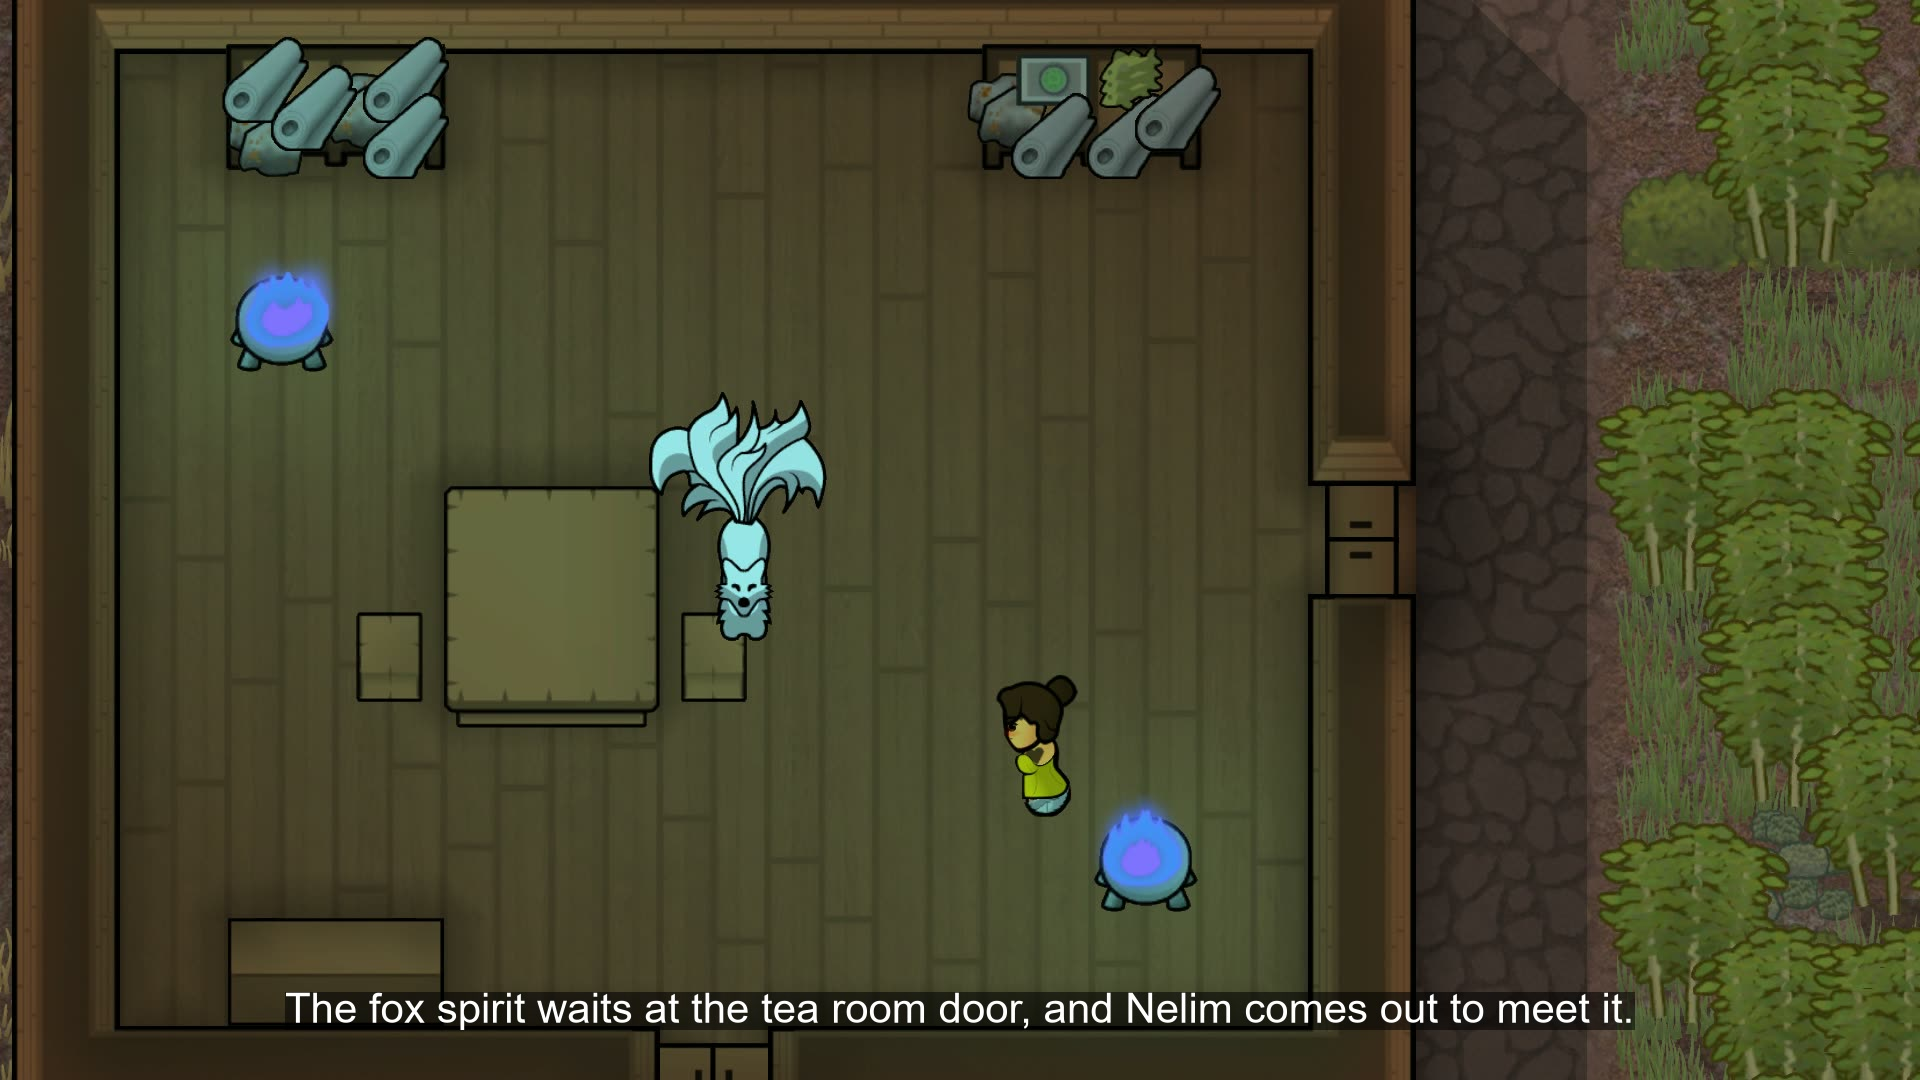
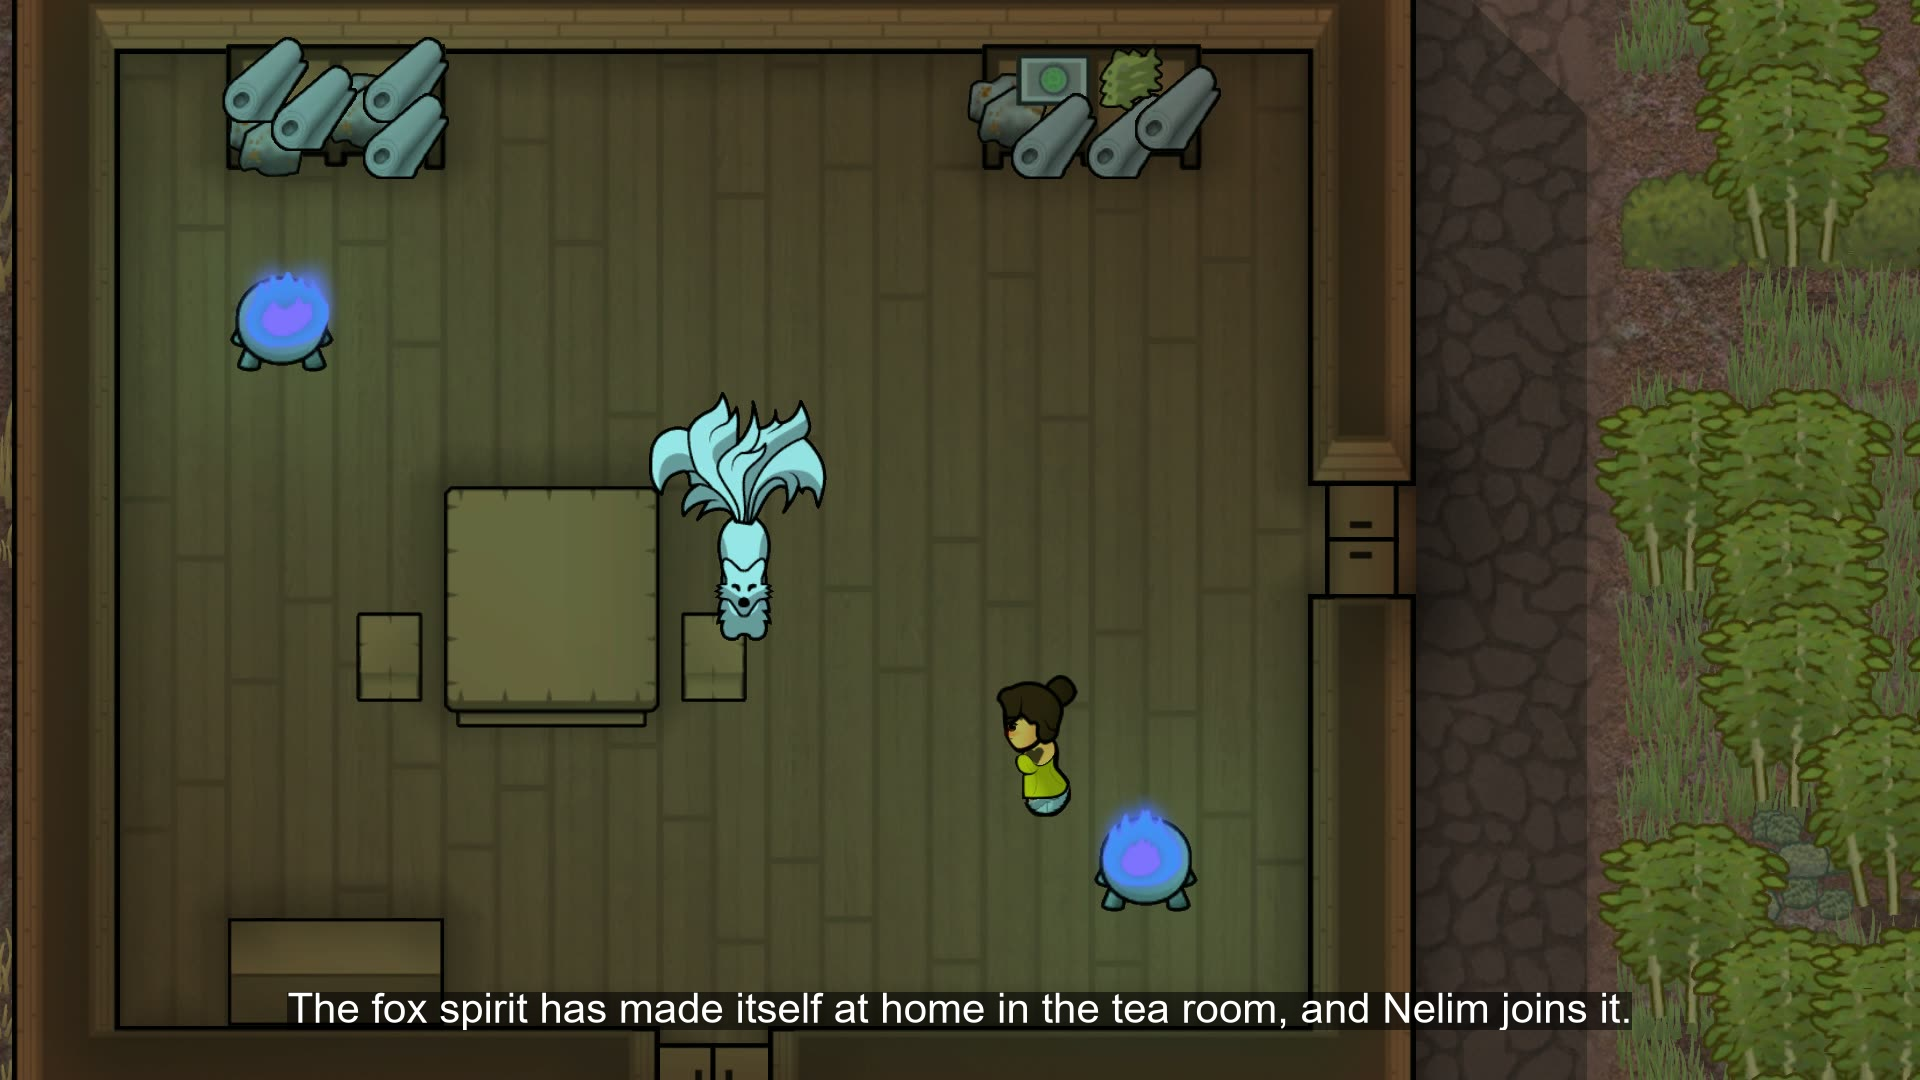
Gallery: subtitle of 1 matches the scene (kitsune already inside the tea room)

Changed region(s): [[0.1562, 0.9167, 0.8438, 0.9472]]

diff --git a/PUBLICATION.md b/PUBLICATION.md
@@ -69,7 +69,7 @@ One English line at the bottom of each scene without an interface window (`GALLE
 
 | scene | line |
 |---|---|
-| 1 kitsune at the tea room (`1-kitsune.jpg`) | The fox spirit waits at the tea room door, and Nelim comes out to meet it. |
+| 1 kitsune at the tea room (`1-kitsune.jpg`) | The fox spirit has made itself at home in the tea room, and Nelim joins it. |
 | 2 phoenix in the hearth hall (`2-phoenix.jpg`) | The phoenix settles in the hearth hall and lights it like a second fire. |
 | 3 manticore by the paddies (`3-manticore.jpg`) | The manticore watches the ripe rice from the bank, and Nelim watches it back. |
 | 4 kappa by the pond (`4-kappa.jpg`) | A water spirit rests on the bank of the round pond, and Nelim has come to see it. |
